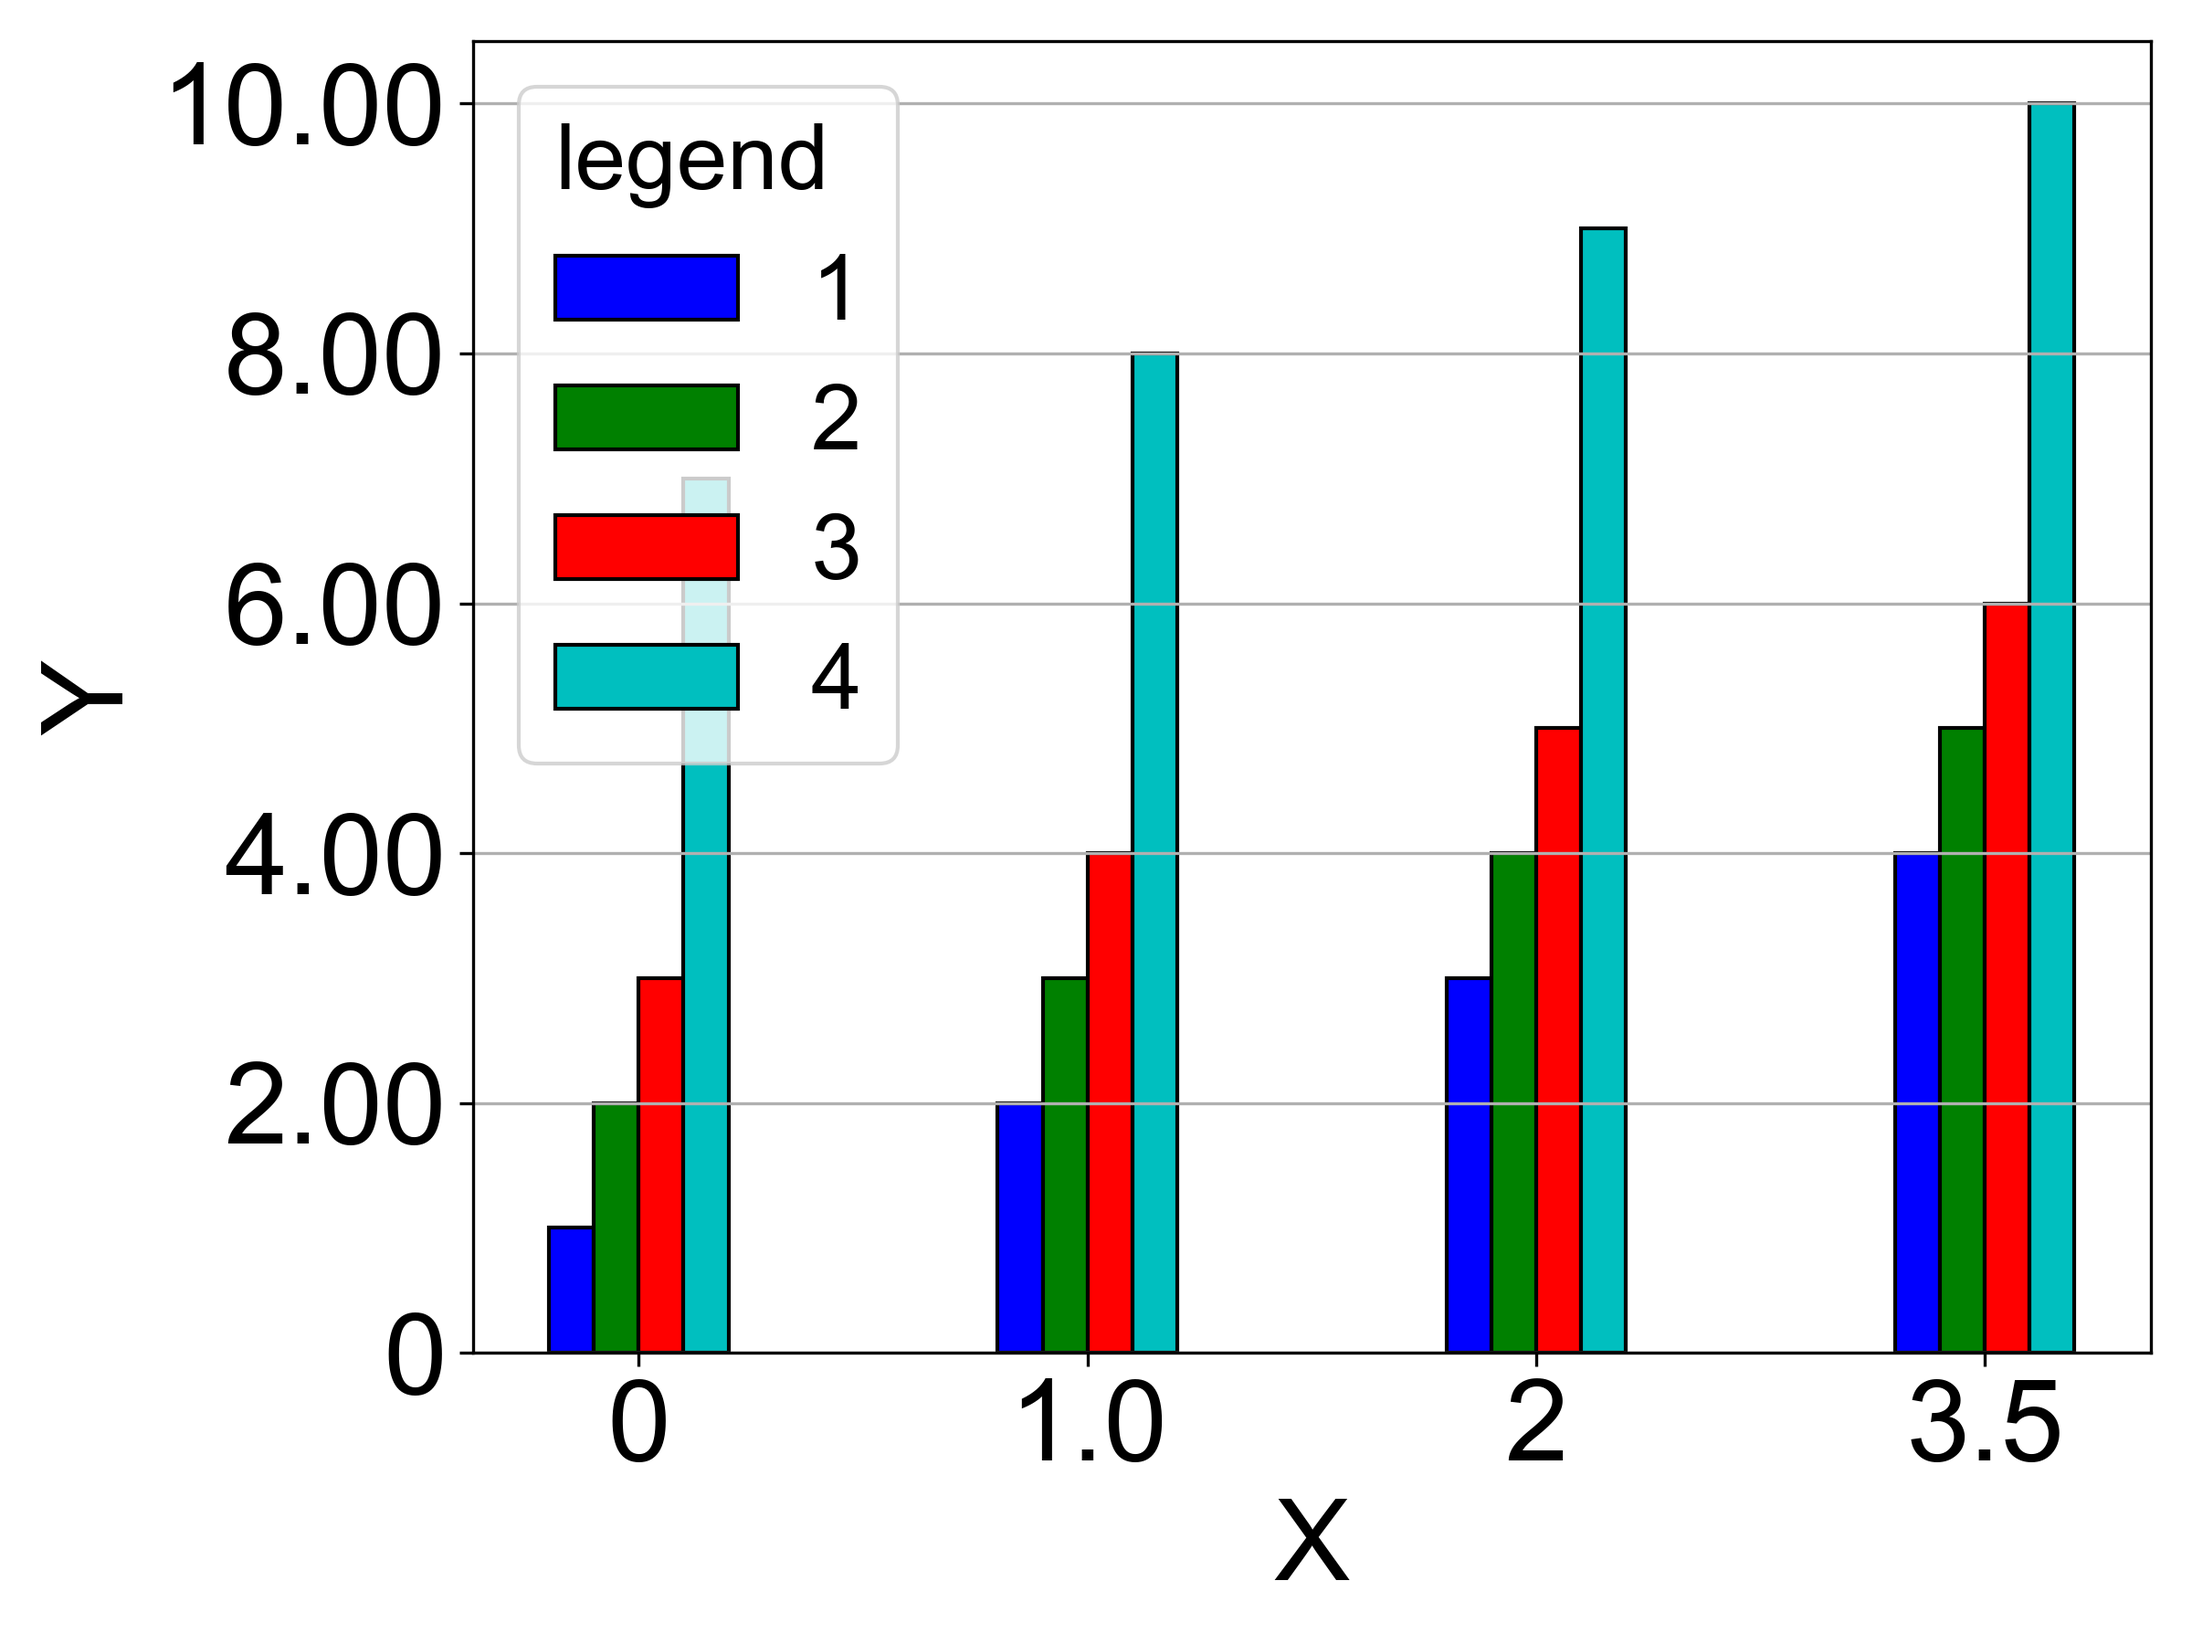
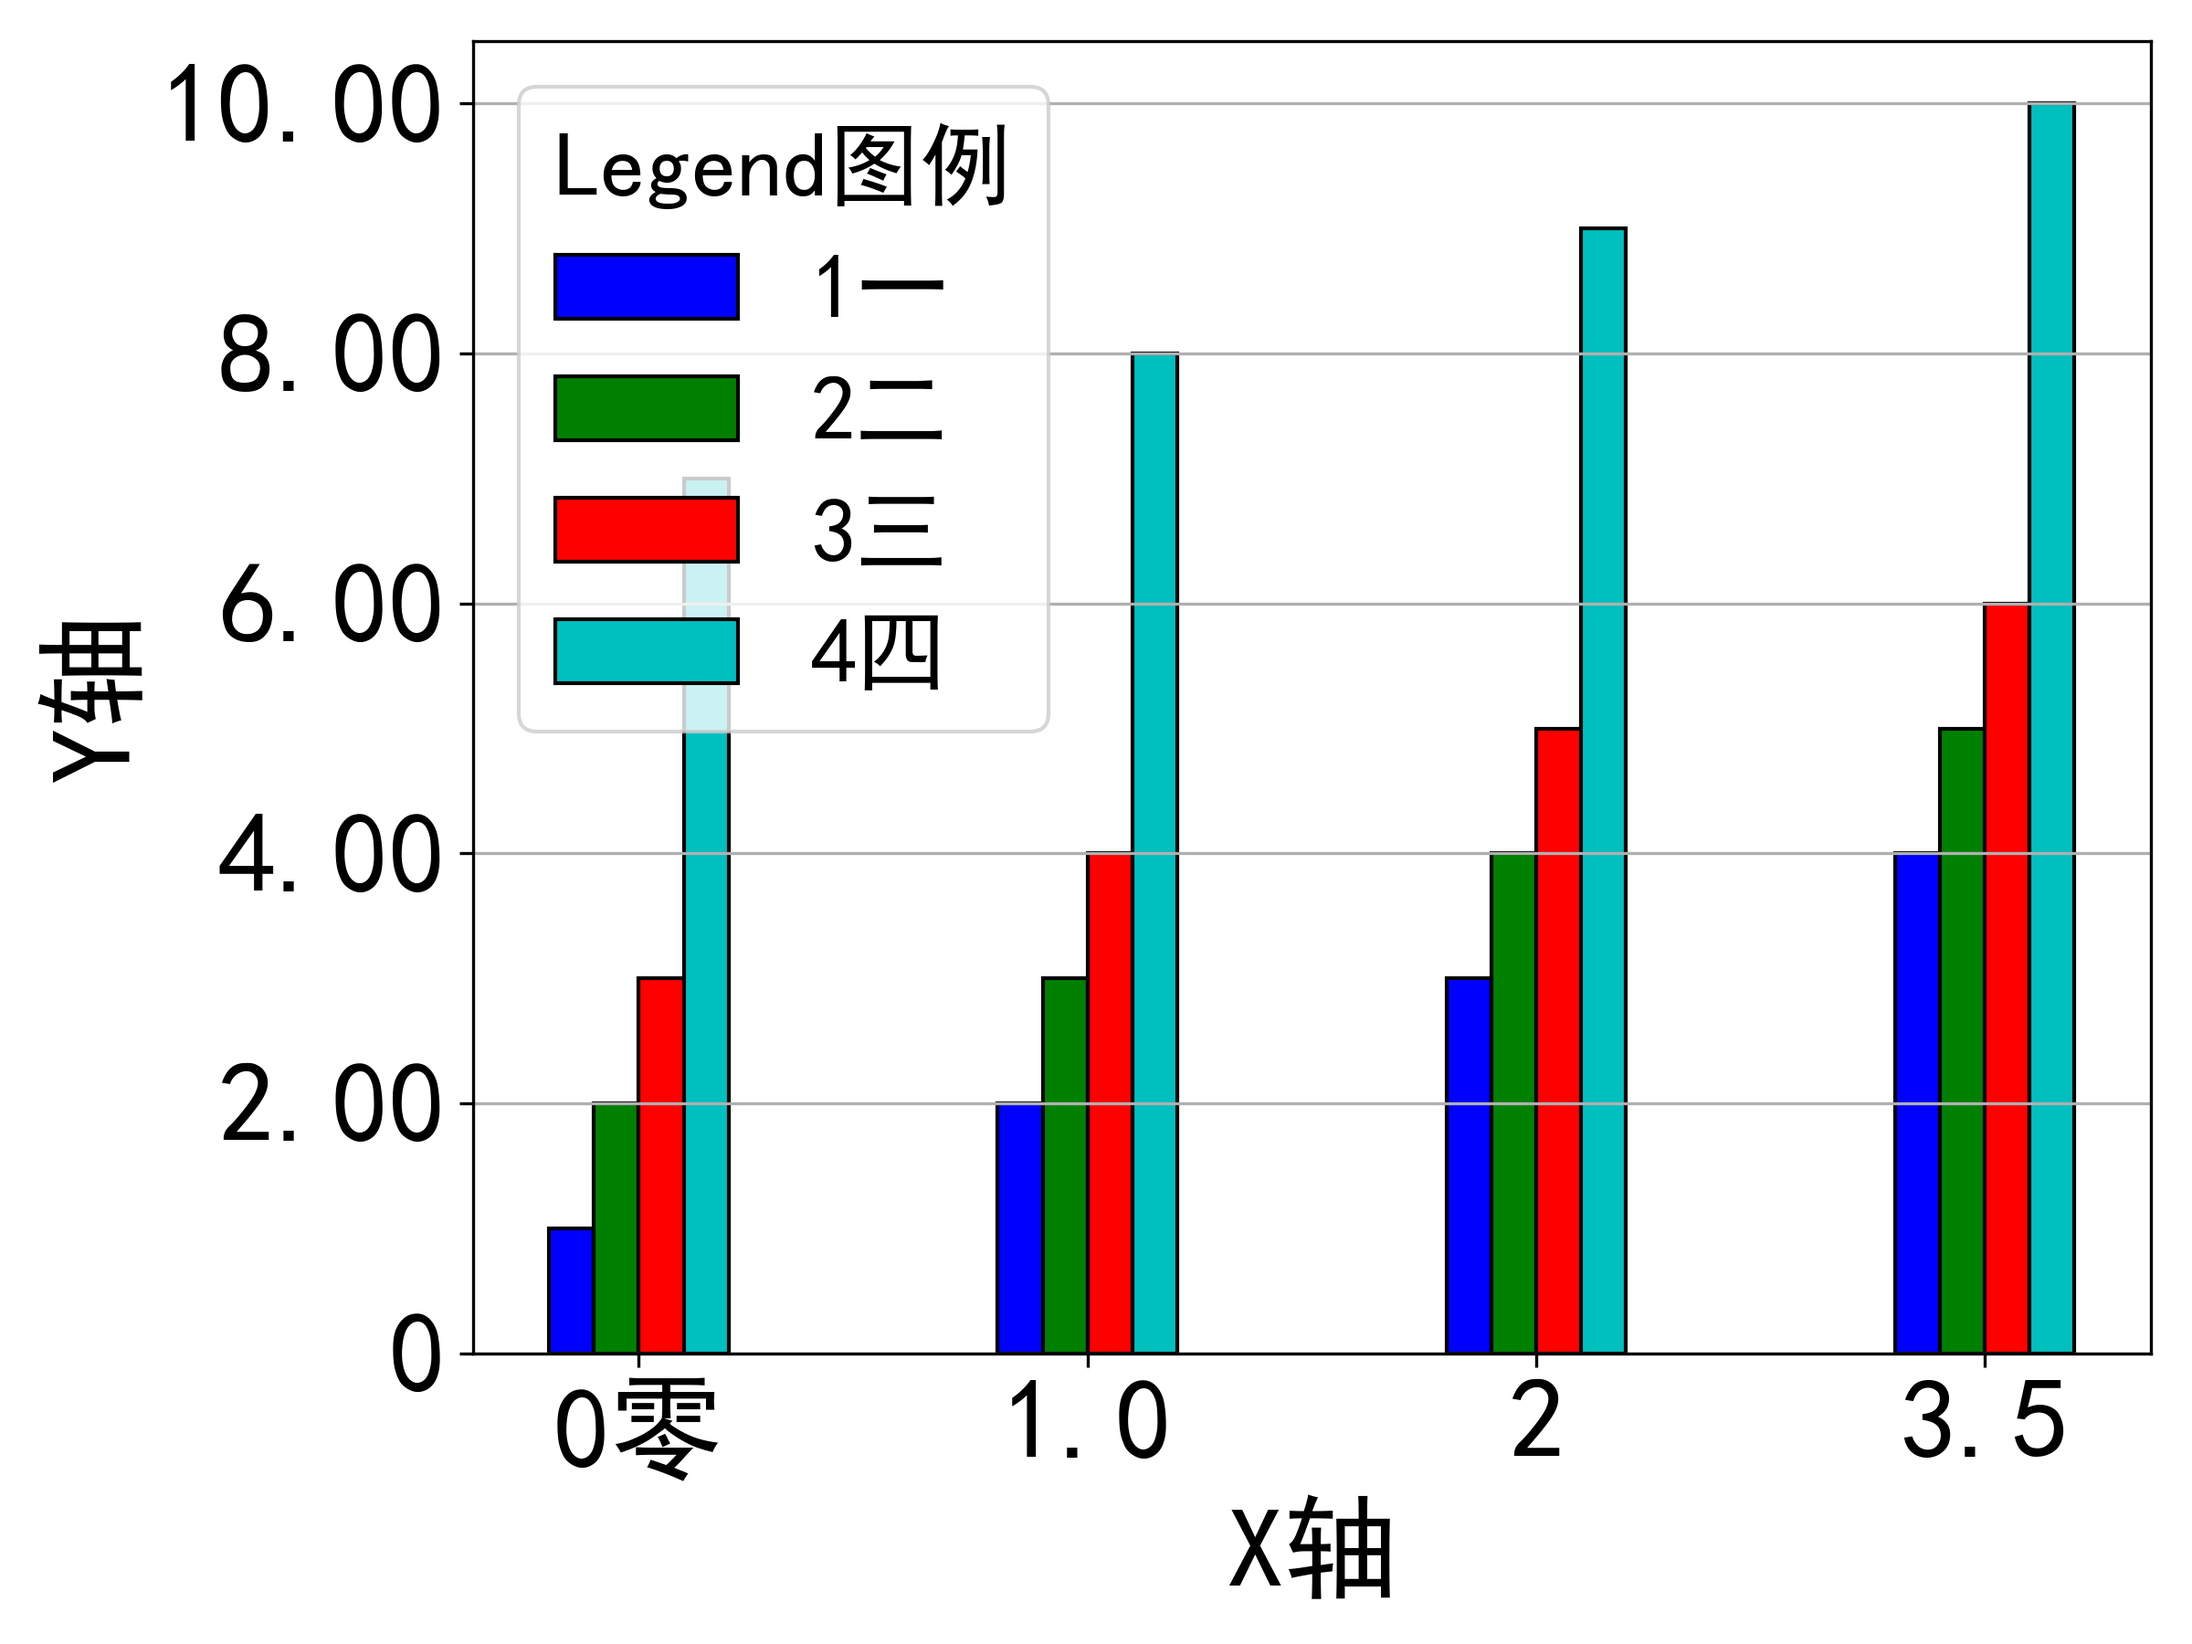
完成bars 的 第三方字体改造

diff --git a/py_plotter/plot.py b/py_plotter/plot.py
@@ -170,7 +170,8 @@ class Plotter(Pyplot_config):
         plt.close()
 
     # 绘制条形图
-    def plot_bars(self, x_label="x", y_label="y", legend_title="legend", legend_ncol=1, bbox_to_anchor=None, y_tick_ndigits=2,
+    def plot_bars(self, x_label="x", y_label="y", legend_title="legend", legend_ncol=1, bbox_to_anchor=None,
+                  y_tick_ndigits=2,
                   legend_loc="best", x_data=None, bar_data_list=None, legend_label_list=None, y_min=None, y_max=None,
                   x_grid=False, y_grid=True, save_root="./", filename="demo.png", is_hatch=False,
                   is_show=False):
@@ -178,8 +179,9 @@ class Plotter(Pyplot_config):
         plt.figure(figsize=self.figsize, dpi=self.dpi)
         ax = plt.subplot(111)
         # 设置轴的标签字体和大小
-        ax.set_xlabel(x_label, fontdict={'size': self.label_size})
-        ax.set_ylabel(y_label, fontdict={'size': self.label_size})
+        font_property = FontProperties(fname=self.font_path, size=self.label_size)
+        ax.set_xlabel(x_label, fontproperties=font_property)
+        ax.set_ylabel(y_label, fontproperties=font_property)
 
         # 分别画柱子
         r_base = np.arange(len(x_data))
@@ -197,8 +199,8 @@ class Plotter(Pyplot_config):
 
         # 添加x轴名称
         plt.xticks([r + (len(bar_data_list) - 1) / 2 * self.bar_width for r in range(len(x_data))], x_data,
-                   size=self.label_size)
-        plt.yticks(size=self.label_size)
+                   size=self.label_size, fontproperties=font_property)
+        plt.yticks(size=self.label_size, fontproperties=font_property)
 
         # 让角标变0
         ax = plt.gca()
@@ -206,9 +208,11 @@ class Plotter(Pyplot_config):
         ax.yaxis.set_major_formatter(y_formatter)
 
         # 创建图例
+        font_property_legend = FontProperties(fname=self.font_path, size=self.legend_size)
         legend = plt.legend(fontsize=self.legend_size, title=legend_title, loc=legend_loc, ncol=legend_ncol,
-                            bbox_to_anchor=bbox_to_anchor)
-        legend.get_title().set_fontsize(fontsize=self.legend_size)
+                            bbox_to_anchor=bbox_to_anchor, prop=font_property_legend)  # 设置图例项的字体属性
+        legend.get_title().set_fontsize(self.legend_size)  # 设置图例标题的字体大小
+        legend.get_title().set_font_properties(font_property_legend)  # 设置图例标题的字体属性
         legend._legend_box.align = "left"
 
         # 网格线
@@ -224,7 +228,7 @@ class Plotter(Pyplot_config):
                 plt.grid(axis=cmd)
 
         # 设置ylim
-        if y_min != None and y_max != None:
+        if y_min is not None and y_max is not None:
             plt.ylim(y_min, y_max)
         plt.tight_layout()
 
@@ -236,7 +240,6 @@ class Plotter(Pyplot_config):
             plt.show()
         # 释放内存
         plt.close()
-        pass
 
     def plot_stack_bars(self, x_label="x", y_label="y", legend_title="legend", legend_ncol=1, bbox_to_anchor=None, y_tick_ndigits=2,
                   legend_loc="best", x_data=None, bar_data_list=None, legend_label_list=None, y_min=None, y_max=None,

diff --git a/py_plotter/example.py b/py_plotter/example.py
@@ -150,16 +150,17 @@ if __name__ == "__main__":
     )
 
     my_plotter.plot_bars(
-        x_data=["0", "1.0", "2", "3.5"],
+        x_data=["0零", "1.0", "2", "3.5"],
         bar_data_list=[
             [1, 2, 3, 4],
             [2, 3, 4, 5],
             [3, 4, 5, 6],
             [7, 8, 9, 10]
         ],
-        legend_label_list=["1", "2", "3", "4"],
-        x_label="X",
-        y_label="Y",
+        legend_label_list=["1一", "2二", "3三", "4四"],
+        x_label="X轴",
+        y_label="Y轴",
+        legend_title="Legend图例",
         save_root="./results",
         filename="plot_bars_demo"
     )
